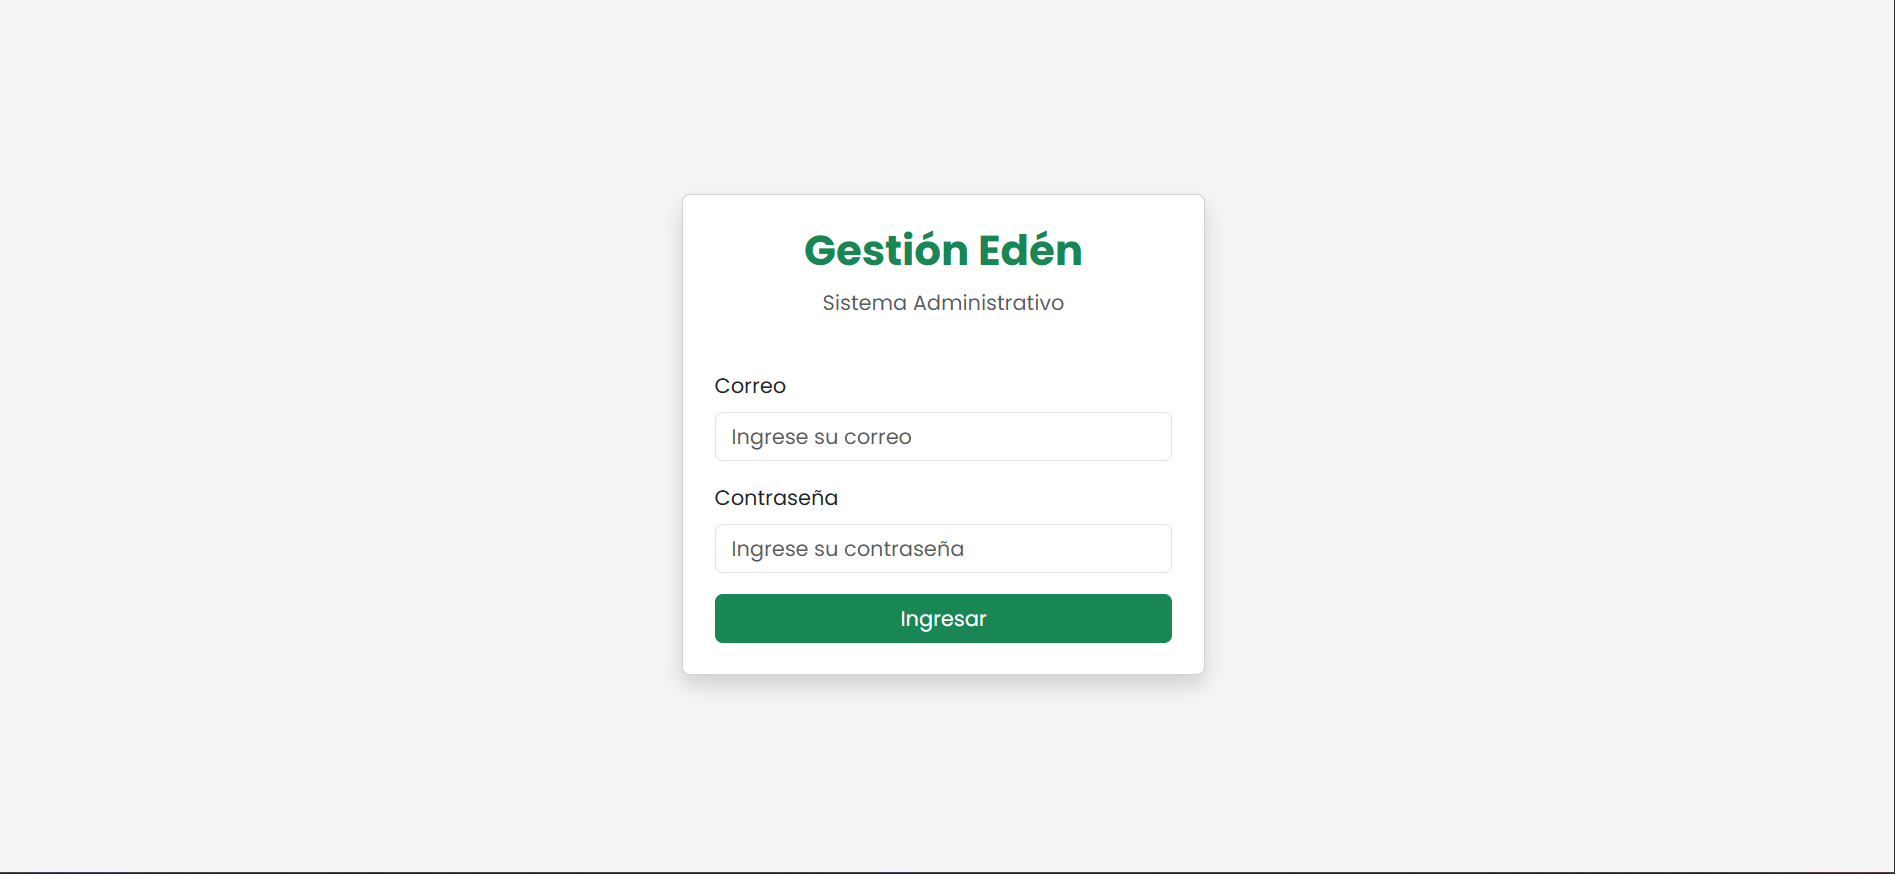
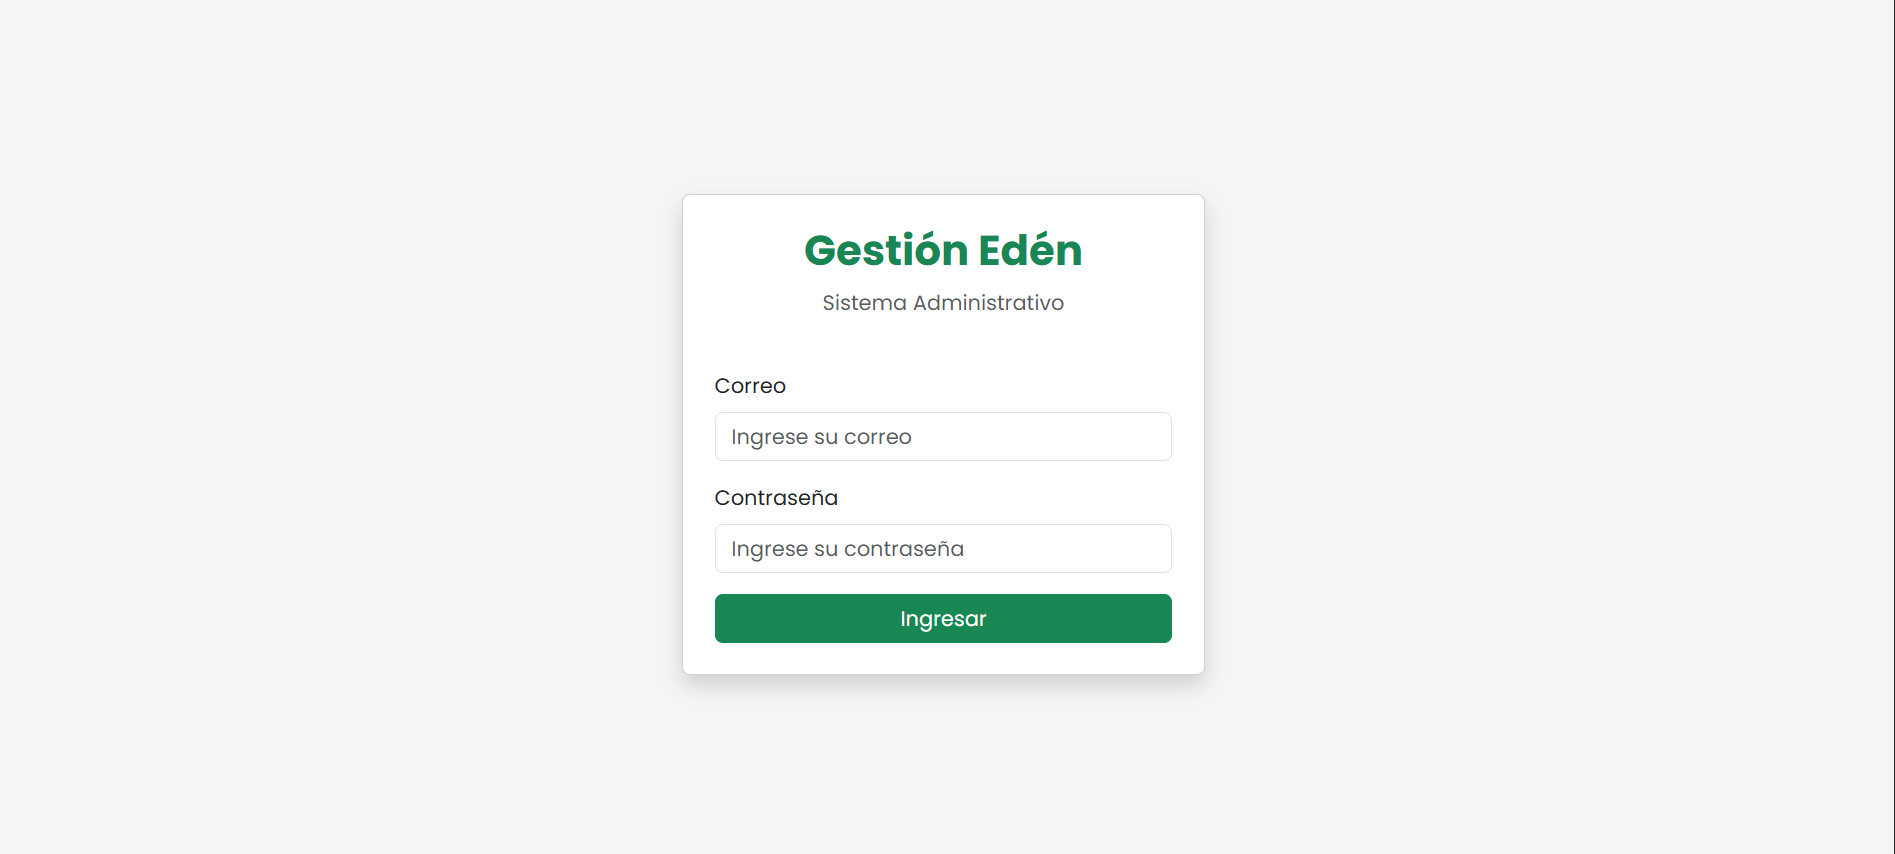
Actualización #03 del PTF.

diff --git a/index.html b/index.html
@@ -95,8 +95,8 @@
                 <div class="project-body"><p class="project-number">Proyecto principal · 01</p><h3>Gestión Edén</h3><p class="project-summary">Gestor administrativo y de ventas a la medida para la organización Edén Muisca.</p><dl class="project-data"><div><dt>Contexto</dt><dd>Proyecto final de grado en colaboración con el SENA.</dd></div><div><dt>Aportes realizados</dt><dd>Análisis de requerimientos, diseño e implementación local, y despliegue de pruebas locales durante todo el ciclo de vida del software.</dd></div><div><dt>Tecnologías confirmadas</dt><dd>HTML | CSS | JavaScript | Java | MySQL | Bootstrap.</dd></div></dl><a class="text-link" href="https://github.com/manuelcaballero-dev/gestion-eden" target="_blank" rel="noopener noreferrer">Ver repositorio <span aria-hidden="true">↗</span></a></div>
             </article>
             <div class="project-grid">
-                <article class="project project-compact reveal"><div class="project-image"><img src="assets/img/nasa-api.png" alt="Captura del laboratorio que utiliza la API de la NASA" width="1904" height="875" loading="lazy" decoding="async"></div><div class="project-body"><p class="project-number">02</p><h3>LAB Using NASA API</h3><p class="project-summary">Página que utiliza la API de la NASA para mostrar las imágenes publicadas diariamente.</p><dl class="project-data"><div><dt>Contexto</dt><dd>Desarrollado en Generation.</dd></div><div><dt>Aportes realizados</dt><dd>Desarrollo del laboratorio.</dd></div><div><dt>Tecnologías confirmadas</dt><dd>API de la NASA.</dd></div></dl><a class="text-link" href="https://github.com/Camilo-Sanchez144/LAB_Using_NASA_API" target="_blank" rel="noopener noreferrer">Ver repositorio <span aria-hidden="true">↗</span></a></div></article>
-                <article class="project project-compact reveal"><div class="project-image"><img src="assets/img/clicktech-1.png" alt="Captura de la interfaz del proyecto Clicktech" width="1903" height="875" loading="lazy" decoding="async"></div><div class="project-body"><p class="project-number">03</p><h3>Clicktech</h3><p class="project-summary">E-commerce de artículos tecnológicos.</p><dl class="project-data"><div><dt>Contexto</dt><dd>Desarrollado en Generation.</dd></div><div><dt>Aportes realizados</dt><dd>Participación en el desarrollo del proyecto.</dd></div><div><dt>Tecnologías confirmadas</dt><dd>HTML | CSS | JavaScript | Java | MySQL | Bootstrap.</dd></div></dl><a class="text-link" href="https://github.com/Luis2612/Click_tech" target="_blank" rel="noopener noreferrer">Ver repositorio <span aria-hidden="true">↗</span></a></div></article>
+                <article class="project project-compact reveal"><div class="project-image"><img src="assets/img/nasa-api.png" alt="Captura del laboratorio que utiliza la API de la NASA" width="1904" height="875" loading="lazy" decoding="async"></div><div class="project-body"><p class="project-number">02</p><h3>LAB Using NASA API</h3><p class="project-summary">Aplicación web desarrollada en Generation Colombia que consume la API oficial de la NASA para mostrar la imagen astronómica del día (Astronomy Picture of the Day).</p><dl class="project-data"><div><dt>Contexto</dt><dd>Desarrollado en Generation.</dd></div><div><dt>Aportes realizados</dt><dd>Manejo de peticiones asíncronas y actualización dinámica del contenido.</dd></div><div><dt>Tecnologías confirmadas</dt><dd>API de la NASA.</dd></div></dl><a class="text-link" href="https://github.com/Camilo-Sanchez144/LAB_Using_NASA_API" target="_blank" rel="noopener noreferrer">Ver repositorio <span aria-hidden="true">↗</span></a></div></article>
+                <article class="project project-compact reveal"><div class="project-image"><img src="assets/img/clicktech-1.png" alt="Captura de la interfaz del proyecto Clicktech" width="1903" height="875" loading="lazy" decoding="async"></div><div class="project-body"><p class="project-number">03</p><h3>Clicktech</h3><p class="project-summary">Plataforma de comercio electrónico desarrollada de forma colaborativa durante el programa Generation Colombia. El proyecto simula una tienda virtual de productos tecnológicos.</p><dl class="project-data"><div><dt>Contexto</dt><dd>Desarrollado en Generation.</dd></div><div><dt>Aportes realizados</dt><dd>Participé en el desarrollo frontend del proyecto, colaborando en la implementación de componentes de la interfaz, integración del diseño y coordinación del trabajo mediante Git y GitHub dentro de un equipo de desarrollo.</dd></div><div><dt>Tecnologías confirmadas</dt><dd>HTML | CSS | JavaScript | Java | MySQL | Bootstrap.</dd></div></dl><a class="text-link" href="https://github.com/Luis2612/Click_tech" target="_blank" rel="noopener noreferrer">Ver repositorio <span aria-hidden="true">↗</span></a></div></article>
             </div>
         </section>
 